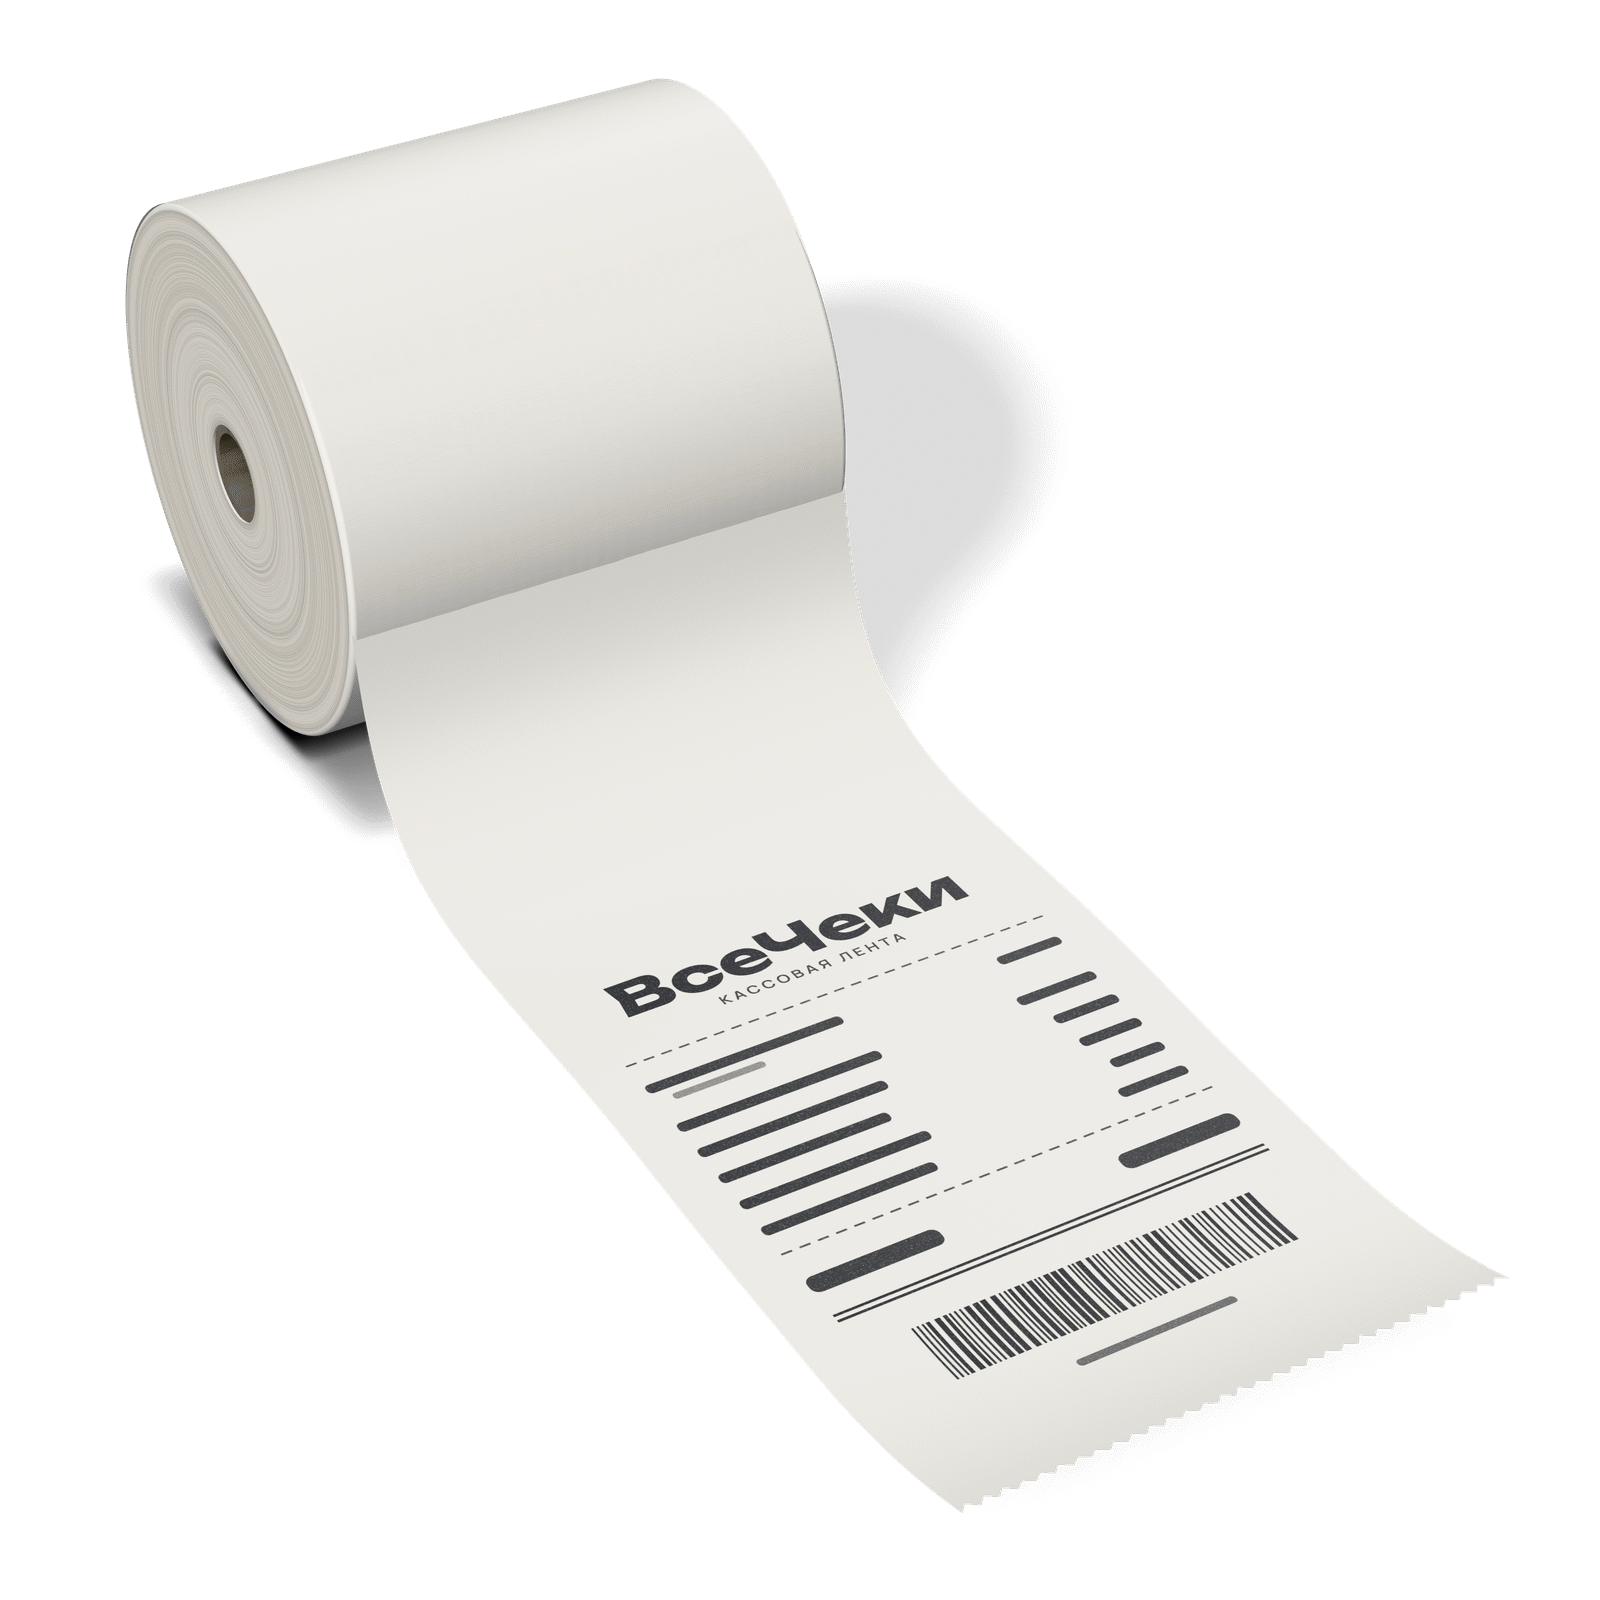
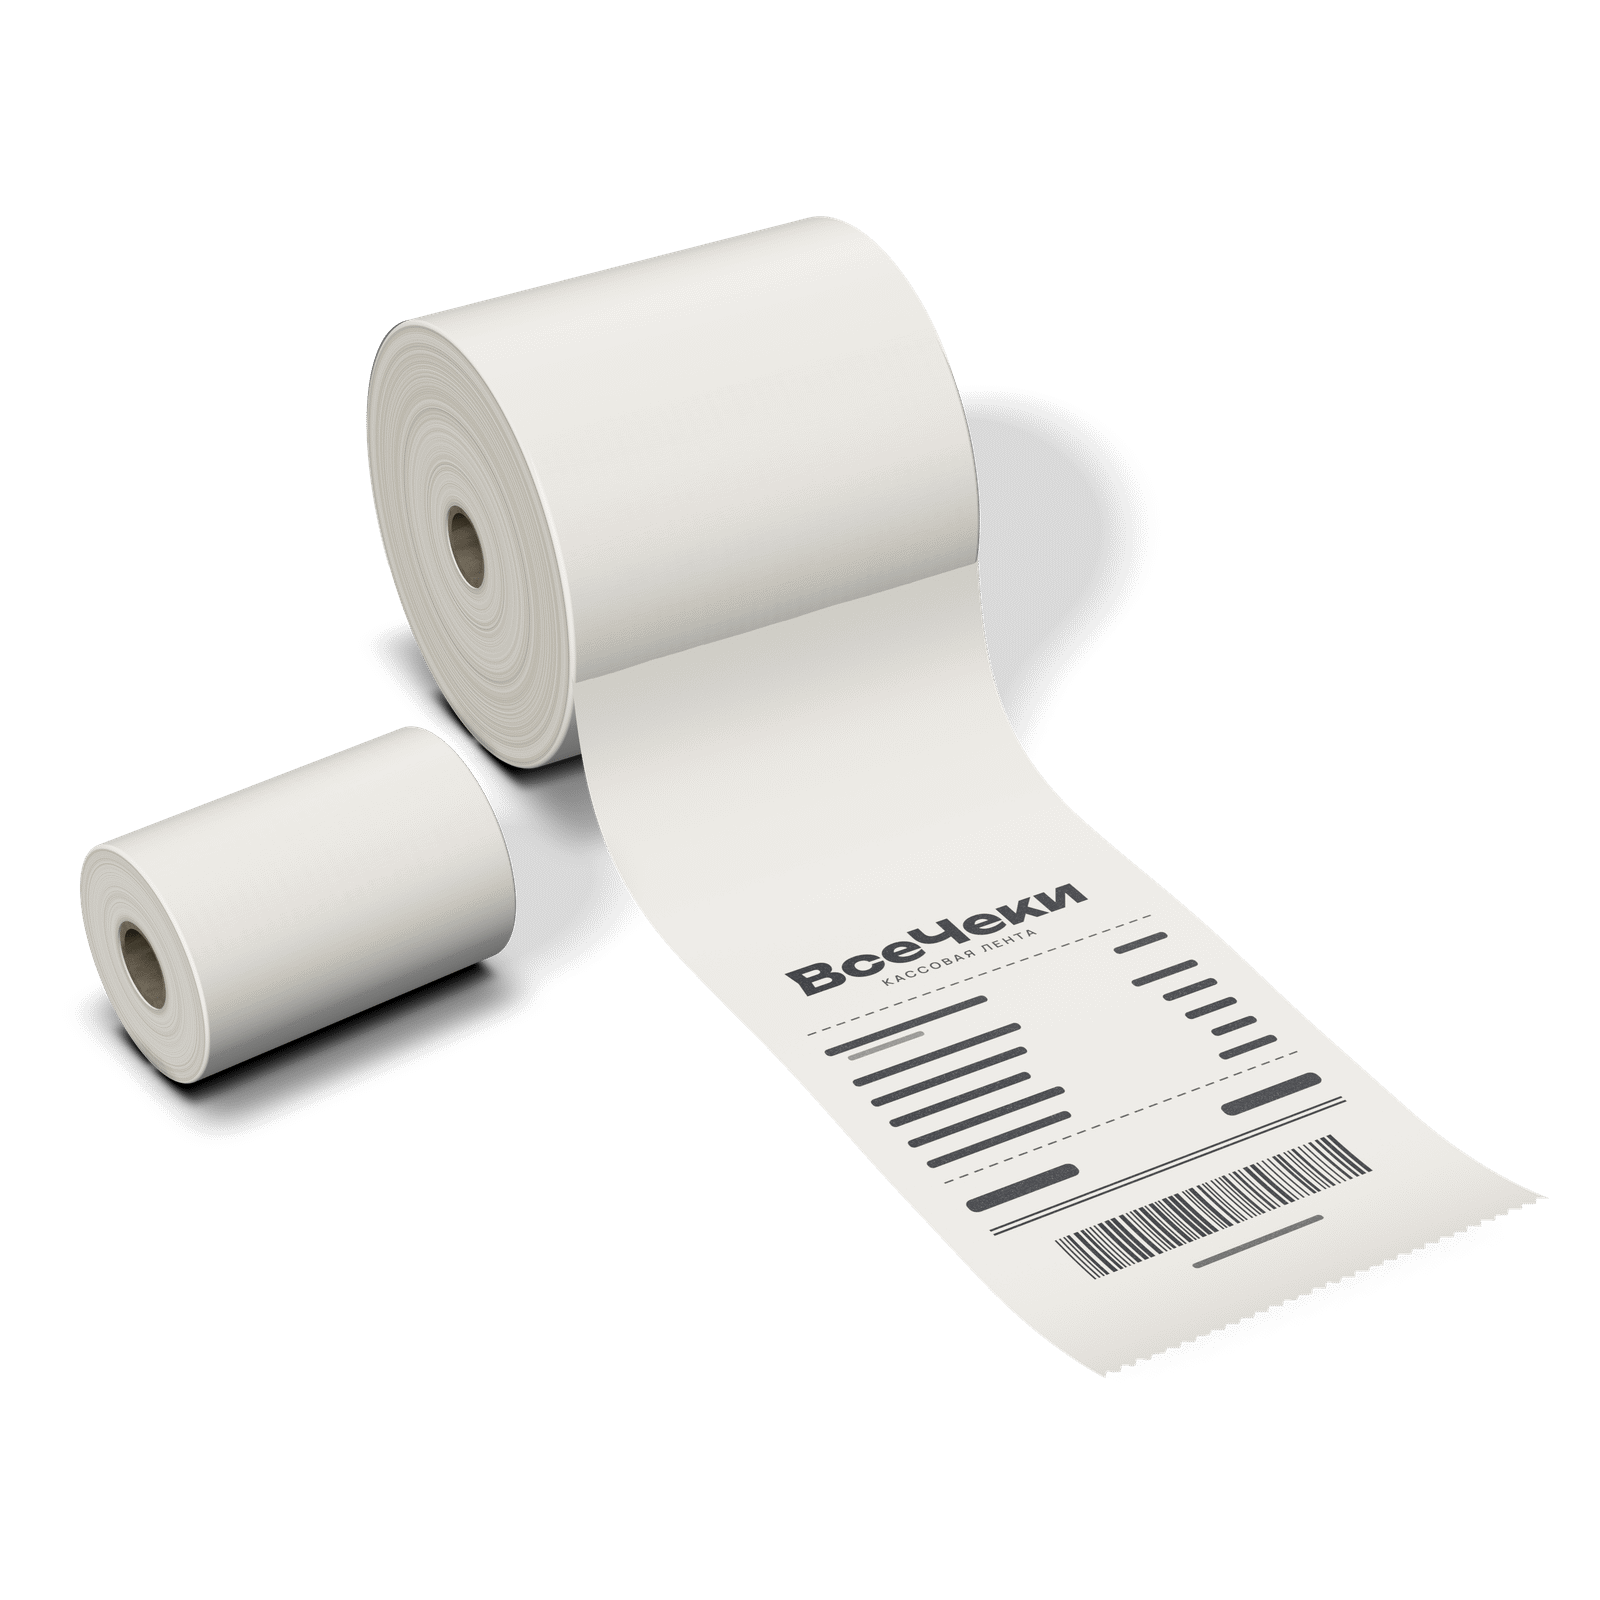
T07: первый экран — два рулона 57 × 40 и 80 × 80, без подписи; рендер без «Производства»
Autopilot-Run: 2026-10-17-thermo-tape-site
Requirements: G46, G47

Changed region(s): [[0.0312, 0.0312, 0.9688, 0.9375], [0.5938, 0.2188, 0.625, 0.25]]

diff --git a/tools/render/scene/shots.js b/tools/render/scene/shots.js
@@ -1,8 +1,7 @@
-// Кадры: что и как снимаем. Каждая функция возвращает PNG (data URL); фон прозрачный, кроме production.
+// Кадры: что и как снимаем. Каждая функция возвращает PNG (data URL); фон прозрачный.
 import * as THREE from 'three';
 import { Studio } from './studio.js';
 import { createRoll, createTail } from './roll.js';
-import { productionShot } from './production.js';
 
 async function loadFonts() {
   const faces = [
@@ -24,16 +23,20 @@ function standing(roll) {
 }
 
 const SHOTS = {
-  // Раздел «Производство»: непрозрачный кадр на фоне секции, края растворяются в фон.
-  production: (o) => productionShot(o),
-  // Первый экран: рулон 80 × 80 на боку, хвост-«чек» сходит сверху и ложится к зрителю.
+  // Первый экран: два рулона на боку, 80 × 80 и 57 × 40 — те же форматы, что продаются.
+  // У большого сходит короткий хвост-«чек» (только слово ВсеЧеки и абстрактные строки).
   hero({ size = 1600, supersample = 2 } = {}) {
     const st = new Studio({ width: size, height: size, supersample });
-    const roll = lying(createRoll({ width: 80, diameter: 80, seed: 2 }));
-    const tail = createTail(roll, { phi: 28, wrap: 150, reach: 76, flat: 128, curl: 7, seed: 21 });
-    roll.add(tail);
-    st.add(roll);
-    st.frame({ azimuth: -30, elevation: 36, fov: 22, margin: 0.05 });
+    const big = lying(createRoll({ width: 80, diameter: 80, seed: 2 }));
+    const tail = createTail(big, { phi: 28, wrap: 150, reach: 76, flat: 128, curl: 7, seed: 21 });
+    big.add(tail);
+    big.position.x = 24;
+    const small = lying(createRoll({ width: 57, diameter: 40, seed: 97 }));
+    small.position.set(-74, small.position.y, 56);
+    small.rotation.y = 0.12;
+    st.add(big);
+    st.add(small);
+    st.frame({ azimuth: -30, elevation: 34, fov: 22, margin: 0.05 });
     st.light();
     st.contact();
     return st.render();

diff --git a/docs/adr/0009-mesto-proizvodstva-ne-nazyvaetsya.md b/docs/adr/0009-mesto-proizvodstva-ne-nazyvaetsya.md
@@ -6,7 +6,7 @@
 
 ## Решение
 
-Сайт не называет никакого места производства — ни прежнего, ни нового. Остаются «собственное производство» и «качественные немецкие материалы»: заголовок «Собственное производство» с акцентом без места, фоновое слово «ПРОИЗВОДСТВО», строка «Производство — собственное», штамп карточки не город. Требование R08 в манифесте имеет статус `dropped`. Запрет закреплён тестом: в `public/`, `README.md` и `tools/render` не должно быть ни одной формы прежнего названия (русские падежи, `leipz`, типичные опечатки) без учёта регистра. История `.autopilot/` не правится.
+Сайт не называет никакого места производства — ни прежнего, ни нового. Остаются «собственное производство» и «качественные немецкие материалы» как факты в разделе «Почему ВсеЧеки»; штамп на изображениях — не город. Отдельного раздела «Производство» на сайте больше нет (убран в третьей задаче), факты о нём живут в «Почему ВсеЧеки». Требование R08 в манифесте имеет статус `dropped`. Запрет закреплён тестом в `tests/api` (проверка по всем формам прежнего названия): в `public/`, `README.md`, `docs/` и `tools/render` не должно быть ни одной формы прежнего названия (русские падежи, латинское написание, типичные опечатки) без учёта регистра. История `.autopilot/` не правится.
 
 ## Почему
 

diff --git a/README.md b/README.md
@@ -106,10 +106,9 @@ npm test             # проверка PHP, отсутствия секрето
 
 | Файл | Где на сайте | Размер |
 |---|---|---|
-| `hero-roll.webp` и `hero-roll.png` | первый экран, рулон с лентой (прозрачный фон) | 1600 × 1600 |
+| `hero-roll.webp` и `hero-roll.png` | первый экран: два рулона 57 × 40 и 80 × 80 (прозрачный фон) | 1600 × 1600 |
 | `roll-57x40.webp` и `.png` | карточка формата 57 × 40 | 1000 × 1000 |
 | `roll-80x80.webp` и `.png` | карточка формата 80 × 80 | 1000 × 1000 |
-| `production-roll.webp` и `.png` | раздел «Производство»: непрозрачный фон, края сходят в цвет секции `#141517` | 1600 × 1200 |
 | `og-image.png` | картинка для ссылок в соцсетях и мессенджерах | 1200 × 630 |
 | `apple-touch-icon.png` | иконка на экране телефона | 180 × 180 |
 
